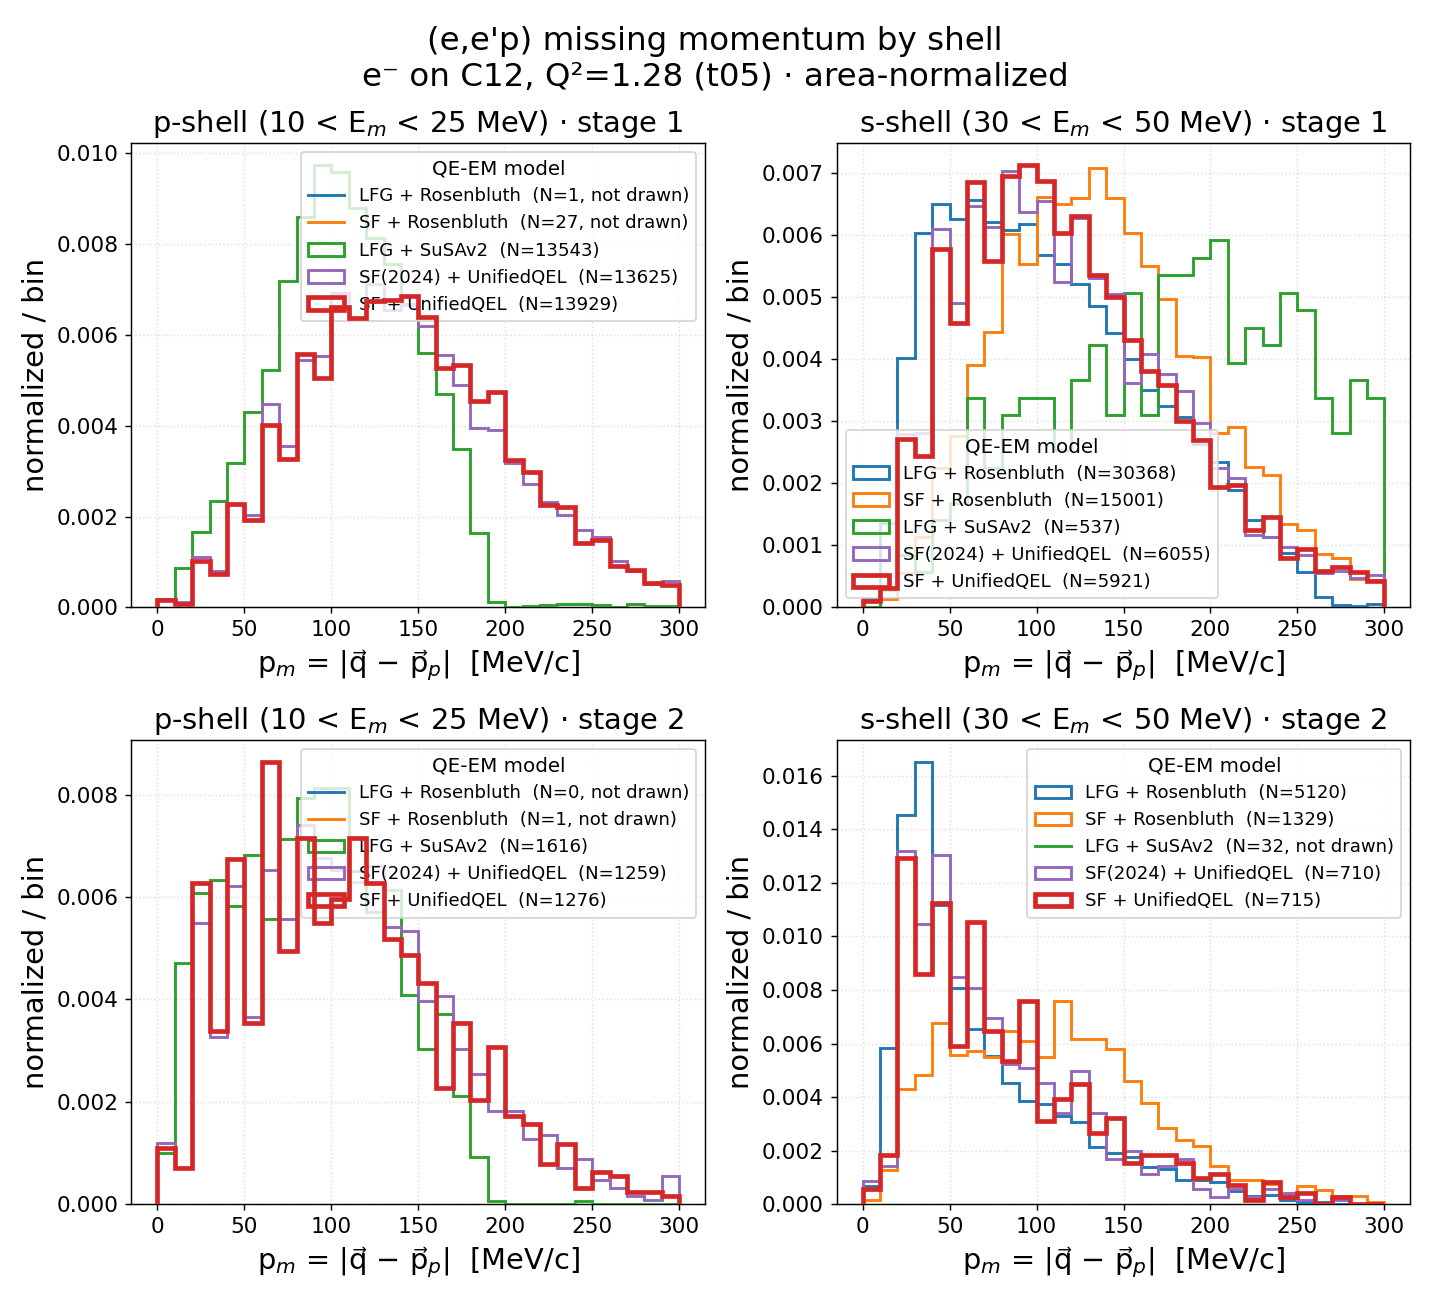
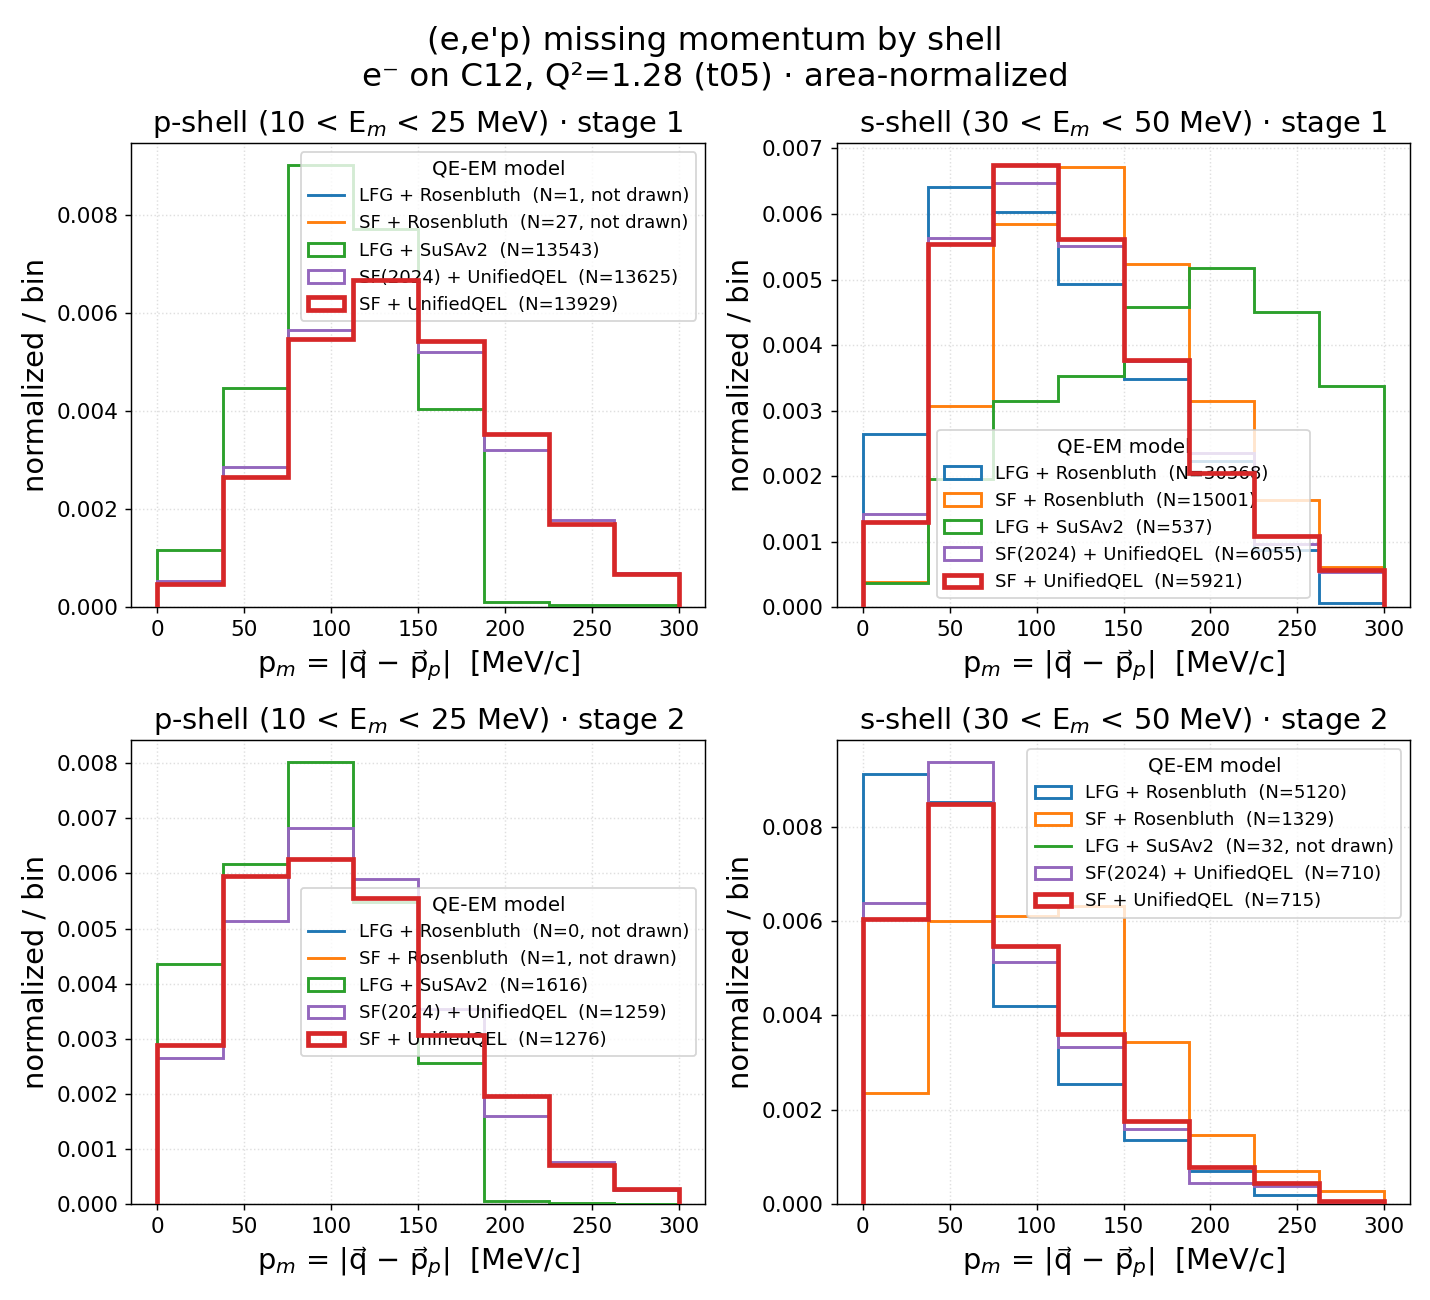
prd-analyzer: coarsen shell-sliced p_m to 8 bins over 0-300 MeV/c

diff --git a/results/prd-analyzer/plot_missing_shells.py b/results/prd-analyzer/plot_missing_shells.py
@@ -24,7 +24,7 @@ import samples as S
 
 SHELLS = [("p-shell", 10.0, 25.0), ("s-shell", 30.0, 50.0)]
 STAGES = [("stage 1", False), ("stage 2", True)]
-PBINS = np.linspace(0.0, 300.0, 31)   # p_m  [MeV/c] (paper window |p_m| < 300)
+PBINS = np.linspace(0.0, 300.0, 9)    # p_m  [MeV/c] (paper window |p_m| < 300), 8 bins
 MIN_N = 50                            # below this, legend-only (density hist would be spikes)
 
 cache = {m: S.load_cache(m) for m in S.MODELS}
